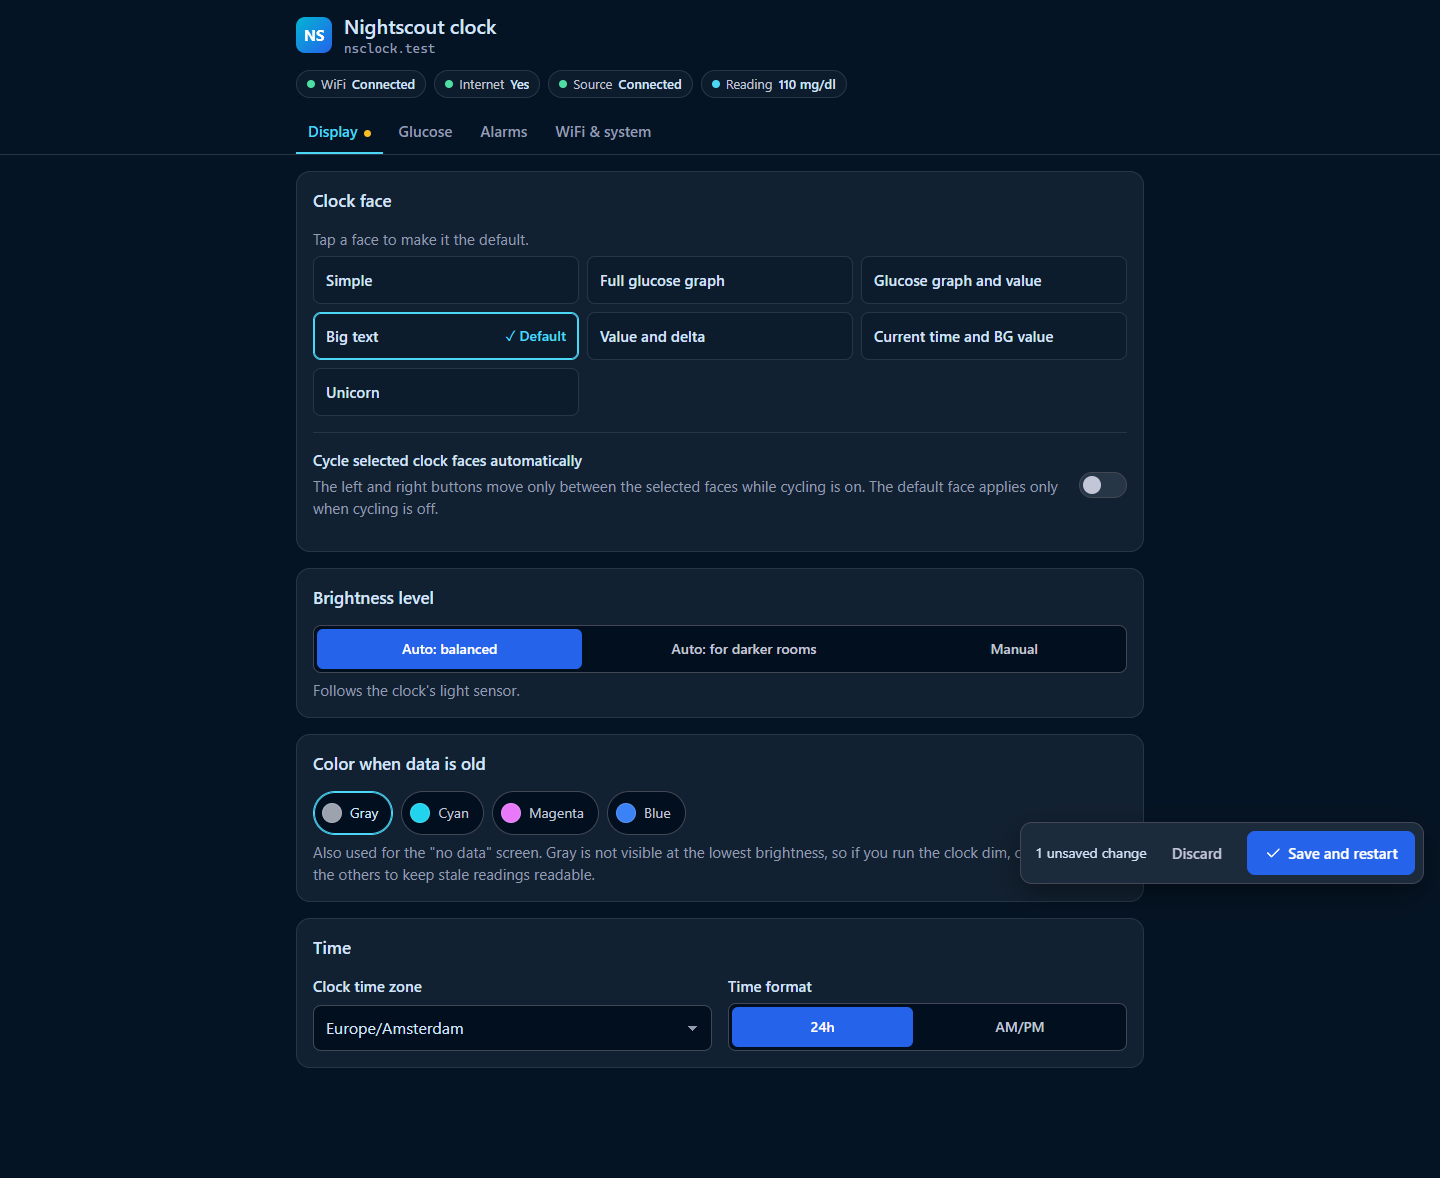
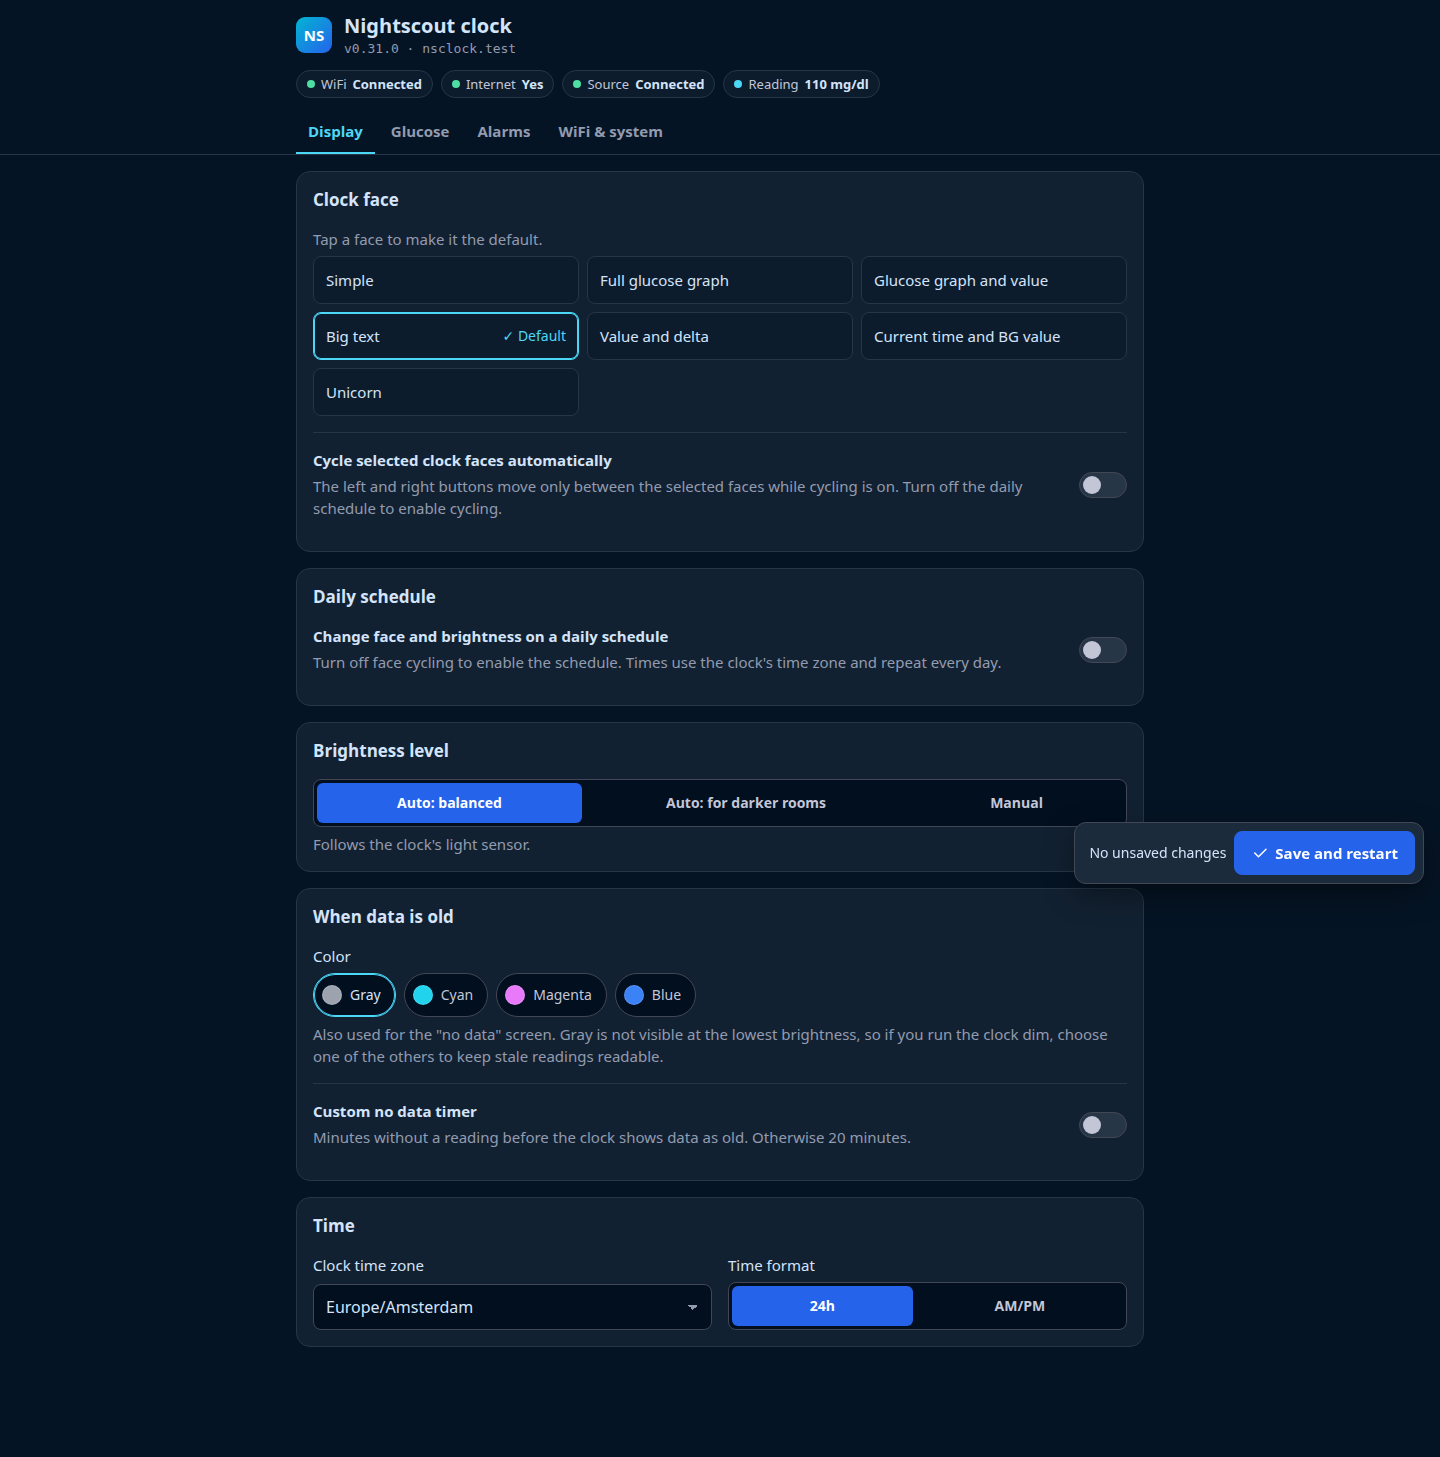
Add daily scheduling to the redesigned settings UI
Expose daily clock face and brightness schedules in the Display tab. Initialize absent schedules as empty lists, validate unique times and the eight-row limit, and keep scheduling mutually exclusive with face cycling. Include the rebuilt page and a desktop screenshot, with desktop viewport defaults documented in the screenshot tooling.

diff --git a/web/src/js/cards.js b/web/src/js/cards.js
@@ -134,7 +134,7 @@ function toast(message, kind = "ok", ms = 4500) {
 
 // ---------- Display ----------
 function displayTab() {
-    return el("div.stack", facesCard(), brightnessCard(), oldDataCard(), timeCard())
+    return el("div.stack", facesCard(), faceScheduleCard(), brightnessCard(), oldDataCard(), timeCard())
 }
 
 function facesCard() {
@@ -162,10 +162,73 @@ function facesCard() {
     const interval = reactive(["face_cycle_enabled"], () => form.get("face_cycle_enabled")
         ? field("face_cycle_interval_seconds", "Change face every", segmented("face_cycle_interval_seconds", CYCLE_INTERVALS, { numeric: true, label: "Change face every" }))
         : el("span", { hidden: true }))
-    return card("Clock face", null, el("div.stack", faces, el("hr.divider"),
-        toggleRow("face_cycle_enabled", "Cycle selected clock faces automatically",
-            "The left and right buttons move only between the selected faces while cycling is on. The default face applies only when cycling is off."),
+    const cyclingToggle = reactive(["face_schedule_enabled"], () => {
+        const row = toggleRow("face_cycle_enabled", "Cycle selected clock faces automatically",
+            "The left and right buttons move only between the selected faces while cycling is on. Turn off the daily schedule to enable cycling.")
+        $("input", row).disabled = !!form.get("face_schedule_enabled")
+        return row
+    })
+    return card("Clock face", null, el("div.stack", faces, el("hr.divider"), cyclingToggle,
         interval), { id: "card_faces" })
+}
+
+function faceScheduleCard() {
+    const key = "face_schedule"
+    const toggle = reactive(["face_cycle_enabled"], () => {
+        const row = toggleRow("face_schedule_enabled", "Change face and brightness on a daily schedule",
+            "Turn off face cycling to enable the schedule. Times use the clock's time zone and repeat every day.")
+        $("input", row).disabled = !!form.get("face_cycle_enabled")
+        return row
+    })
+    const body = reactive(["face_schedule_enabled"], () => {
+        if (!form.get("face_schedule_enabled")) return el("span", { hidden: true })
+        const rows = el("div.stack")
+        const list = () => clone(form.get(key))
+        const brightnessOptions = [[100, "Auto: balanced"], [101, "Auto: for darker rooms"],
+            ...Array.from({ length: 10 }, (_, i) => [i + 1, `Manual: ${i + 1}`])]
+        const draw = () => {
+            rows.replaceChildren(...list().map((entry, i) => {
+                const update = patch => {
+                    const next = list()
+                    next[i] = { ...next[i], ...patch }
+                    form.set(key, next)
+                    form.touch(key)
+                }
+                const time = el("input", { id: `schedule_${i}_time`, type: "time", step: 60 })
+                time.value = entry.time
+                time.addEventListener("input", () => update({ time: time.value }))
+                const select = (name, options) => {
+                    const control = el("select", { id: `schedule_${i}_${name}` })
+                    for (const [value, label] of options) control.add(new Option(label, value))
+                    control.value = String(entry[name])
+                    control.addEventListener("change", () => update({ [name]: Number(control.value) }))
+                    return control
+                }
+                return el("div.stack",
+                    el("div.grid",
+                        field(key + "_time", "Time", time),
+                        field(key + "_face", "Clock face", select("face", FACES.map(f => [f.id, f.name]))),
+                        field(key + "_brightness", "Brightness", select("brightness", brightnessOptions))),
+                    el("button.btn.sm", { type: "button", "aria-label": `Remove scheduled time ${i + 1}`, onclick: () => {
+                        const next = list()
+                        next.splice(i, 1)
+                        form.set(key, next)
+                        form.touch(key)
+                        draw()
+                    } }, icon("trash"), "Remove time"))
+            }))
+            add.disabled = list().length >= 8
+        }
+        const add = el("button.btn.sm", { type: "button", onclick: () => {
+            form.set(key, [...list(), { time: "22:00", face: 0, brightness: 100 }])
+            form.touch(key)
+            draw()
+        } }, icon("plus"), "Add time")
+        draw()
+        return field(key, null, el("div.stack", rows, add),
+            "Add up to 8 different times. Each row applies its face and brightness until the next scheduled time, including overnight.")
+    })
+    return card("Daily schedule", null, el("div.stack", toggle, body), { id: "card_schedule" })
 }
 
 function brightnessCard() {

diff --git a/web/src/js/schema.js b/web/src/js/schema.js
@@ -171,6 +171,13 @@ function validateConfig(c, ctx) {
         const n = new Set(c.face_cycle_faces || []).size
         need("face_cycle_faces", n >= 2, n === 1 ? "1 face selected. Select one more face before saving." : "0 faces selected. Select at least two faces before saving.")
     }
+    if (c.face_schedule_enabled) {
+        const rows = c.face_schedule
+        need("face_schedule", !c.face_cycle_enabled, "Turn off face cycling before enabling the schedule.")
+        need("face_schedule", rows.length >= 1 && rows.length <= 8, "Add between 1 and 8 scheduled times, or turn the schedule off.")
+        need("face_schedule", rows.every(row => isTime(row.time)), "Every row needs a valid time.")
+        need("face_schedule", new Set(rows.map(row => row.time)).size === rows.length, "Two rows have the same time.")
+    }
     need("tz", RX.timezone.test(text(c.tz_libc)) && (!ctx.tzNames || ctx.tzNames.has(c.tz)), "Please select your time zone.")
     need("time_format", inOptions(c.time_format, TIME_FORMATS), "Please select the time format (AM/PM or 24h).")
 
@@ -209,6 +216,7 @@ function buildSaveJson(c) {
 // replaced by the page's defaults.
 function normalizeLoaded(c) {
     const out = clone(c)
+    out.face_schedule ??= []
     const num = k => {
         if (typeof out[k] === "string" && /^-?\d+$/.test(out[k].trim())) out[k] = parseInt(out[k], 10)
     }

diff --git a/scripts/screenshot_web_ui.py b/scripts/screenshot_web_ui.py
@@ -30,8 +30,8 @@ def main():
         "--output", type=Path, default=ROOT / "docs/images/web-ui.png",
         help="PNG destination (default: docs/images/web-ui.png in the repository)",
     )
-    parser.add_argument("--width", type=positive_int, default=390, help="viewport width (default: 390)")
-    parser.add_argument("--height", type=positive_int, default=844, help="viewport height (default: 844)")
+    parser.add_argument("--width", type=positive_int, default=1440, help="viewport width (default: 1440)")
+    parser.add_argument("--height", type=positive_int, default=900, help="viewport height (default: 900)")
     parser.add_argument("--browser", type=Path, help="use an installed Chrome/Chromium executable")
     args = parser.parse_args()
     if args.output.suffix.lower() != ".png":

diff --git a/CONTRIBUTING.md b/CONTRIBUTING.md
@@ -37,7 +37,7 @@ and saves a full-page PNG to `docs/images/web-ui.png`, the image used in the REA
 It uses factory defaults plus sample WiFi, Nightscout, and status data. No clock or
 running web server is needed, and rendering makes no external network requests.
 The current checkout's version is also used as the simulated latest version.
-The default viewport is 390 by 844 pixels, a phone screen.
+The default viewport is 1440 by 900 pixels, a desktop screen.
 
 Install the screenshot dependencies once (Python 3.9 or newer):
 
@@ -53,8 +53,8 @@ Then regenerate the screenshot after changing the UI:
 /tmp/nsclock-screenshot-venv/bin/python scripts/screenshot_web_ui.py
 ```
 
-Use `--output /tmp/web-ui.png` for a preview, or `--width 1440 --height 900` for a
-desktop viewport. The image always includes the full page. To use an existing
+Use `--output /tmp/web-ui.png` for a preview, or `--width 390 --height 844` for a
+phone viewport. The image always includes the full page. To use an existing
 Chrome/Chromium installation instead of downloading Chromium, pass
 `--browser /path/to/chrome`. Commit the regenerated README image with relevant UI changes.
 
